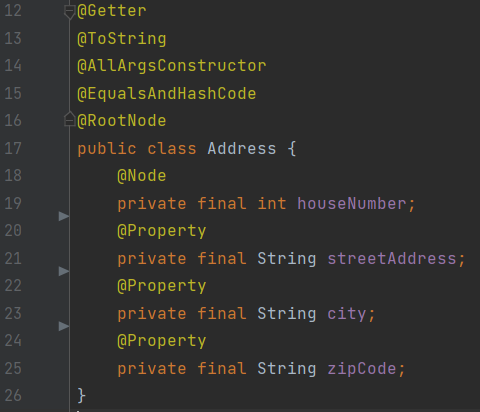
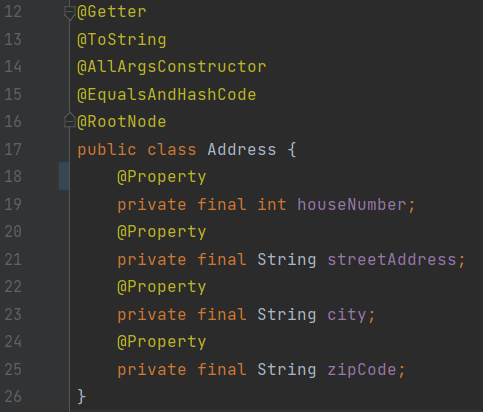
Add img to wiki

diff --git a/src/main/java/pl/dmuszynski/oxmmapper/samples/Address.java b/src/main/java/pl/dmuszynski/oxmmapper/samples/Address.java
@@ -15,7 +15,7 @@ import pl.dmuszynski.oxmmapper.tools.annotation.RootNode;
 @EqualsAndHashCode
 @RootNode
 public class Address {
-    @Node
+    @Property
     private final int houseNumber;
     @Property
     private final String streetAddress;
